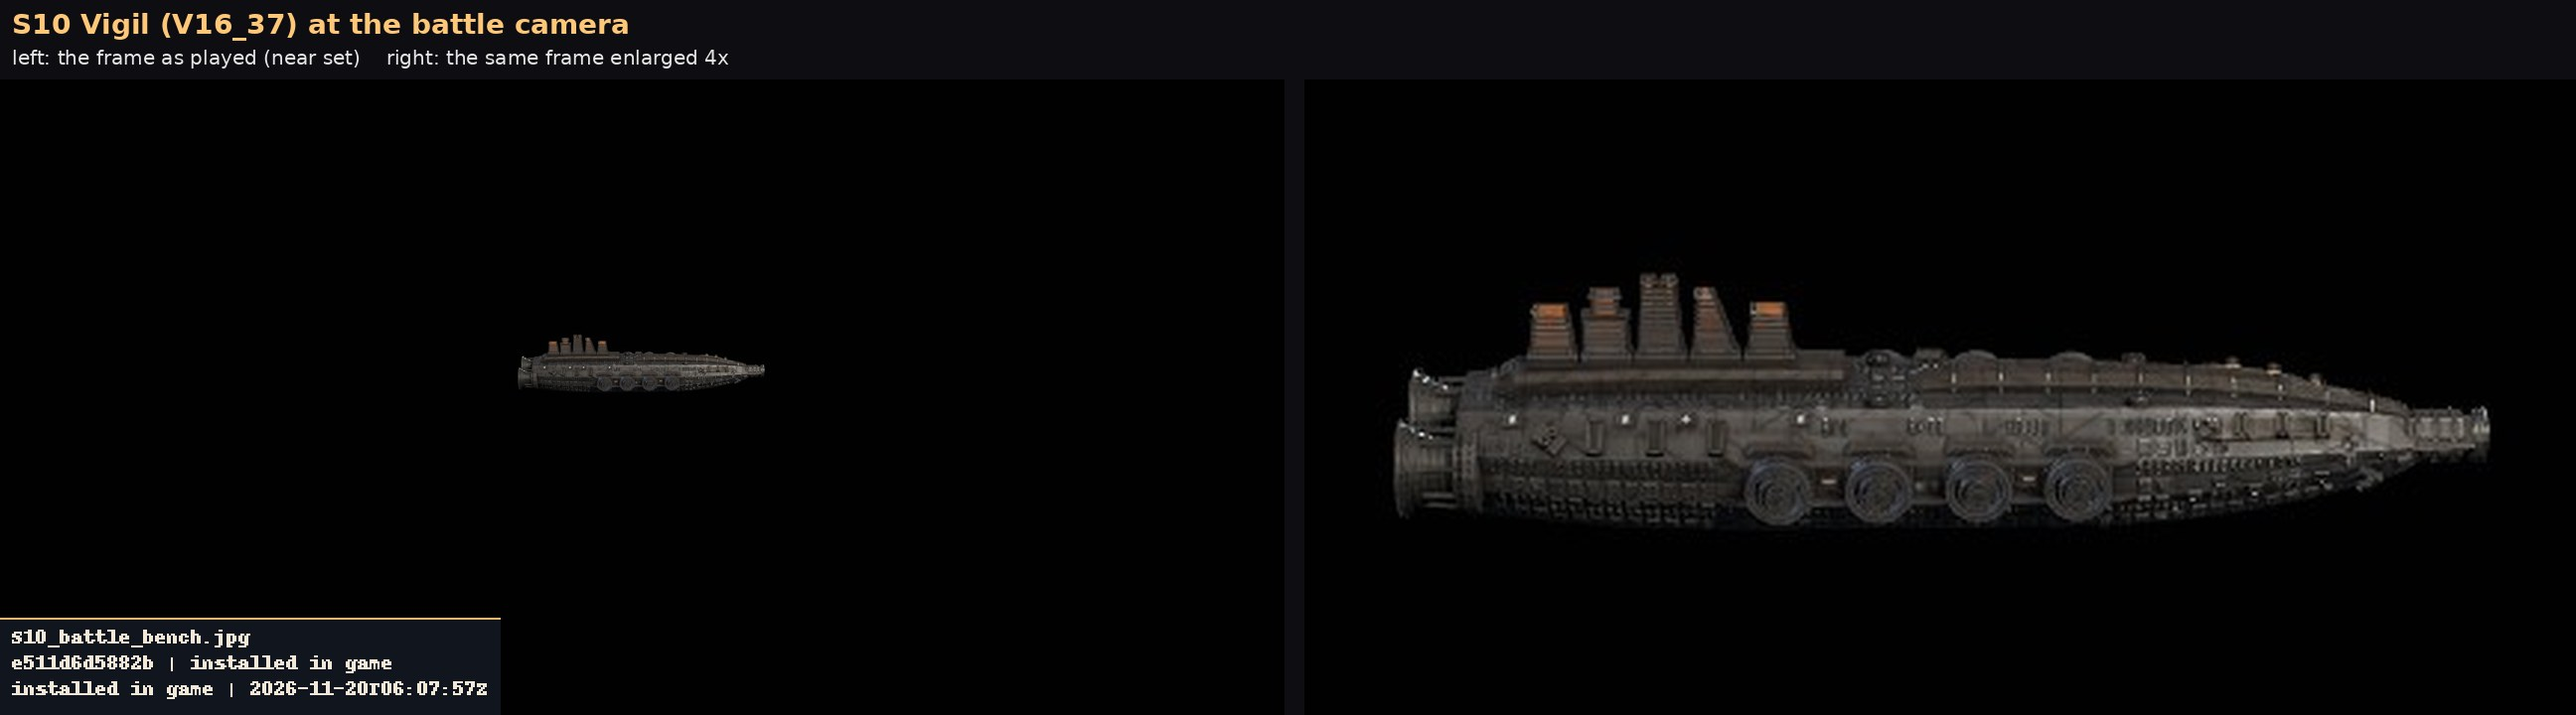
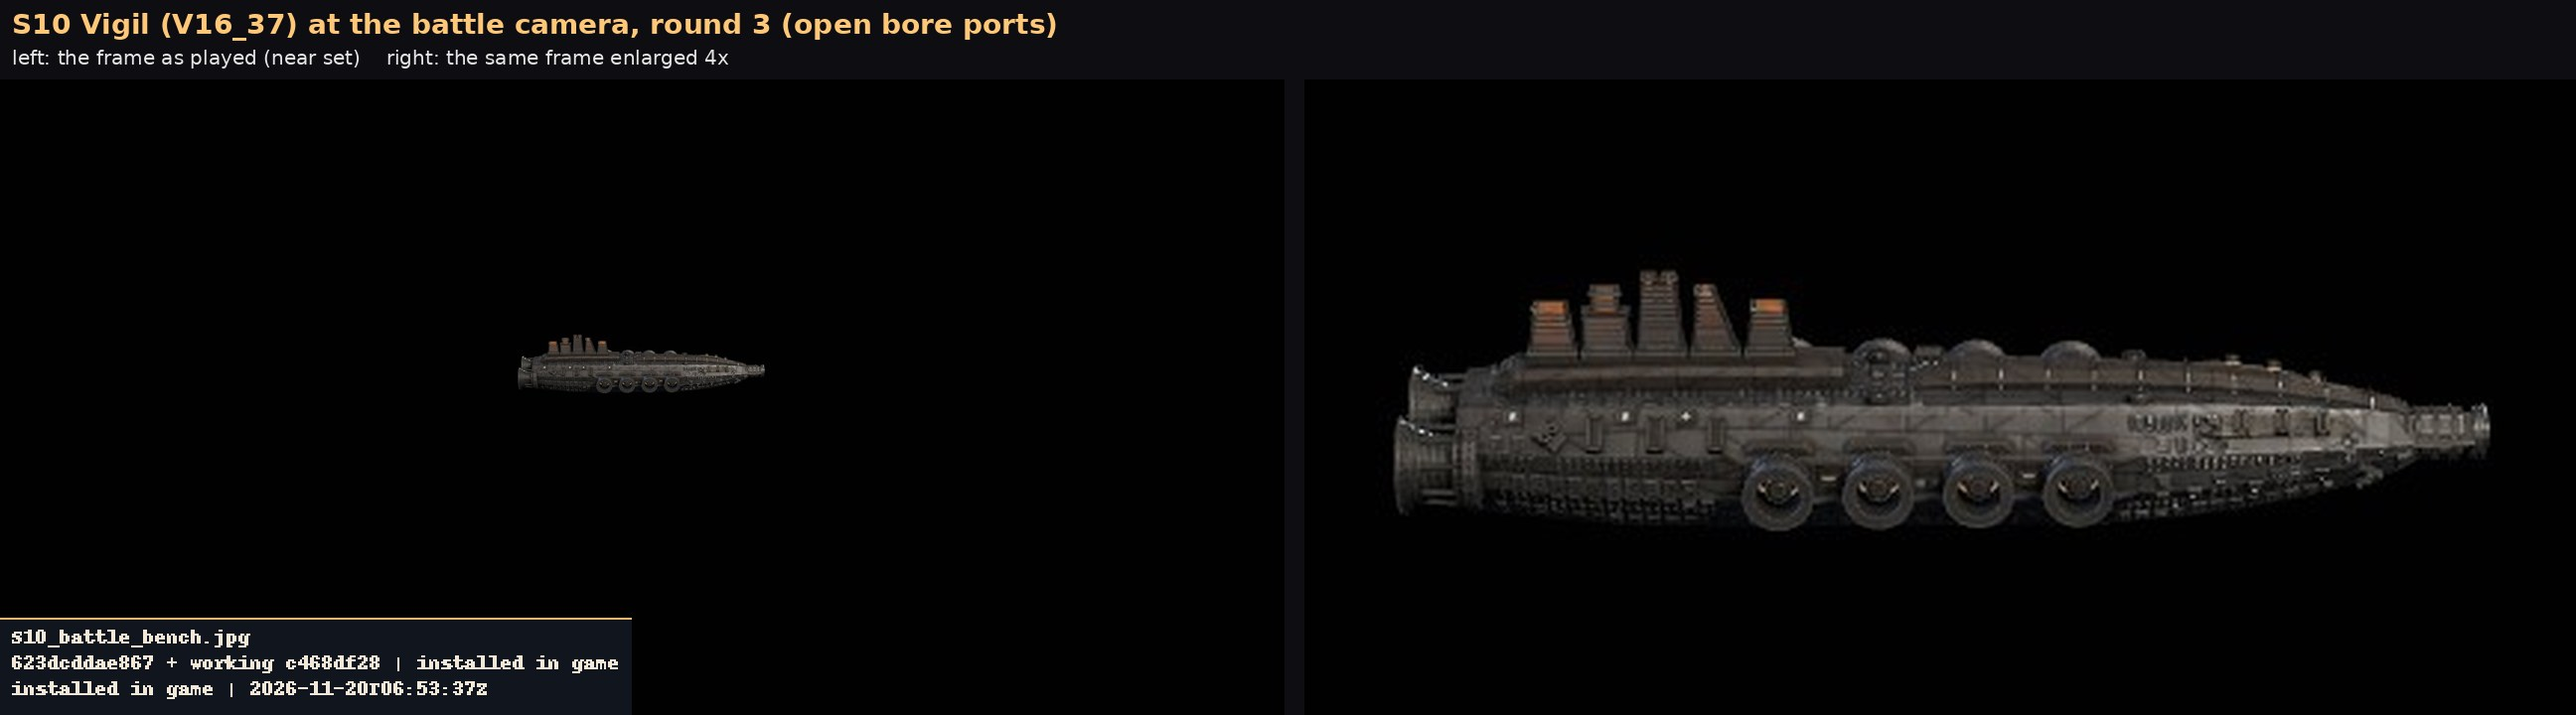
Vigil S10: in-game picture and battle bench from the round 3 PC run at ffe2591c (Refs #1157)
Claude-Session: https://claude.ai/code/session_01TX7Q22fHUMq92w5ChskKNJ

diff --git a/docs/shots/ships/S10/README.md b/docs/shots/ships/S10/README.md
@@ -2,7 +2,7 @@
 
 - `S10_ingame_vs_concept.jpg`: the accepted concept beside the installed ship in Godot (three-quarter, side, and the battle
   camera at true size), from the PC run 1157_shipjob5 (PASS, Nov 20 00:00 CT, commit e511d6d5; files on board/pc-out-1119zzzb).
-- `S10_battle_bench.jpg`: the battle camera (near set) from the same run, with the same frame enlarged 4x.
+- `S10_battle_bench.jpg`: the battle camera (near set) from the same run (1157_shipjob6), with the same frame enlarged 4x.
 - `S10_blob_sweep.jpg`: the nine-cell sweep (bow, midship, stern from top, side and below) beside the concept regions, from the
   build sheet (`docs/ship_pipeline/build_sheets/voidsworn_S10/cells.jpg`). A viewing instrument, not a bar (R121).
 - `S10_r1_blockout_vs_concept.jpg`, `S10_r2_blockout_vs_concept.jpg`: the blockout rounds the Board looked at before stage 5.
